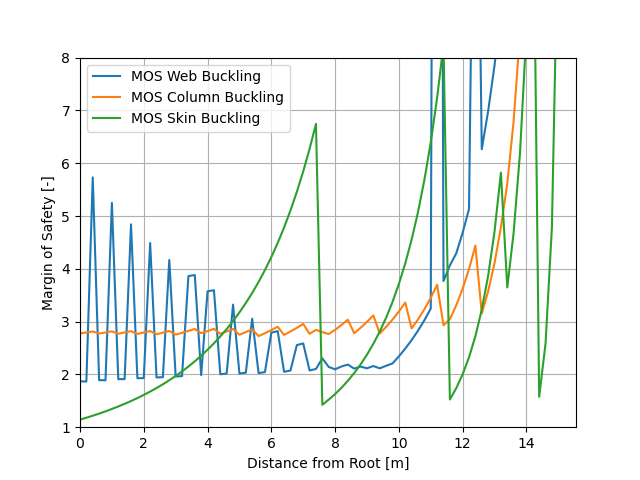
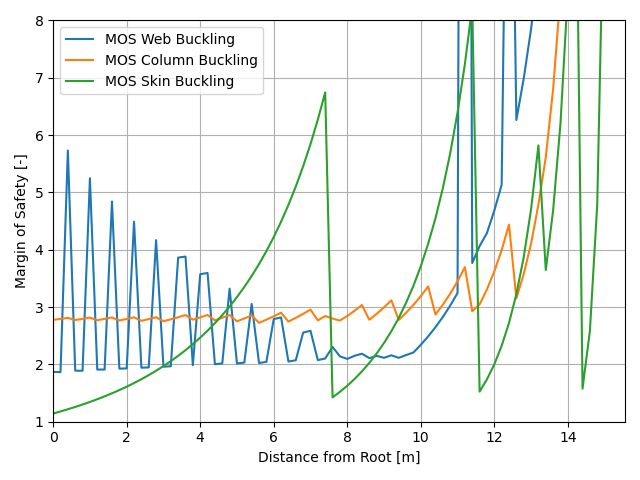
optimisation

diff --git a/testing_numbers.py b/testing_numbers.py
@@ -47,6 +47,7 @@ MMOI_list = []
 torsional_list = []
 stringer_count_skin_buck = [[], []]
 stringer_count_skin_buck1 = [[], []]
+stringer_count = [[], []]
 
 MOSwebbuck = [[], []]
 MOScolumnbuck = [[], []]
@@ -133,6 +134,12 @@ fn.AoA = 10
 fn.fuel = 1
 WP41.q = fn.dynamic_pressure(wingbox, planform)
 for x in rangy_range:
+    number = 0
+    for stringer in wingbox.stringers_top:
+        number += (stringer.x_stop > x)
+    stringer_count[0].append(number)
+
+for x in rangy_range:
     lift_list[0].append(WP41.Ndis0(x, fn.AoA))
     # torsion_list[0].append(fn.torsion(x, planform))
     # bending_list[0].append(fn.bending_moment(x, wingbox, planform))
@@ -147,9 +154,9 @@ for x in rangy_range:
     # critical_column_stress[0].append(fn.column_buckling(x, test_stringer))
     # stringer_count_skin_buck[0].append(fn.skin_buckling_stringer_count(x, wingbox, planform)[0])
     # stringer_count_skin_buck1[0].append(fn.skin_buckling_stringer_count(x, wingbox, planform)[1])
-    #MOSwebbuck[0].append(fn.web_buckling(x, wingbox, planform, aluminum, combination_of_vertical_stiff) / fn.shear_stress(x, wingbox.height(planform, x), wingbox, planform))
-    #MOScolumnbuck[0].append(fn.column_buckling(x, wingbox.stringers_top[0], wingbox.rib_list, planform) / abs(fn.normal_stress(x, wingbox, planform, wingbox.height(planform, x) * 2)))
-    #MOSskinbuck[0].append(abs(fn.skin_buckling(x, wingbox, planform) / fn.normal_stress(x, wingbox, planform, 2 * wingbox.height(planform, x))))
+    MOSwebbuck[0].append(fn.web_buckling(x, wingbox, planform, aluminum, combination_of_vertical_stiff) / fn.shear_stress(x, wingbox.height(planform, x), wingbox, planform))
+    MOScolumnbuck[0].append(fn.column_buckling(x, wingbox.stringers_top[0], wingbox.rib_list, planform) / abs(fn.normal_stress(x, wingbox, planform, wingbox.height(planform, x) * 2)))
+    MOSskinbuck[0].append(abs(fn.skin_buckling(x, wingbox, planform) / fn.normal_stress(x, wingbox, planform, 2 * wingbox.height(planform, x))))
     #MOSnormal[0].append(abs( wingbox.material.sig_yld / (fn.normal_stress(x, wingbox, planform, 2 * wingbox.height(planform, x)))))
     #MOScombined[0].append(abs((wingbox.material.sig_yld / 2) / fn.tau_max(x, wingbox, planform)[0]))
 
@@ -157,6 +164,12 @@ fn.load_factor = -1
 fn.AoA = -10
 fn.fuel = 1
 WP41.q = fn.dynamic_pressure(wingbox, planform)
+for x in rangy_range:
+    number = 0
+    for stringer in wingbox.stringers_bottom:
+        number += (stringer.x_stop > x)
+    stringer_count[1].append(number)
+
 for x in rangy_range:
     lift_list[1].append(WP41.Ndis0(x, fn.AoA))
     # torsion_list[1].append(fn.torsion(x, planform))
@@ -169,9 +182,9 @@ for x in rangy_range:
     # critical_column_stress[1].append(fn.column_buckling(x, test_stringer))
     # stringer_count_skin_buck[1].append(fn.skin_buckling_stringer_count(x, wingbox, planform)[0])
     # stringer_count_skin_buck1[1].append(fn.skin_buckling_stringer_count(x, wingbox, planform)[1])
-    #MOSwebbuck[1].append(fn.web_buckling(x, wingbox, planform, aluminum, combination_of_vertical_stiff) / fn.shear_stress(x, wingbox.height(planform, x), wingbox,planform))
-    #MOScolumnbuck[1].append(fn.column_buckling(x, wingbox.stringers_top[0], wingbox.rib_list, planform) / abs(fn.normal_stress(x, wingbox, planform, 0)))
-    #MOSskinbuck[1].append(abs(fn.skin_buckling(x, wingbox, planform) / fn.normal_stress(x, wingbox, planform, 0)))
+    MOSwebbuck[1].append(fn.web_buckling(x, wingbox, planform, aluminum, combination_of_vertical_stiff) / fn.shear_stress(x, wingbox.height(planform, x), wingbox,planform))
+    MOScolumnbuck[1].append(fn.column_buckling(x, wingbox.stringers_top[0], wingbox.rib_list, planform) / abs(fn.normal_stress(x, wingbox, planform, 0)))
+    MOSskinbuck[1].append(abs(fn.skin_buckling(x, wingbox, planform) / fn.normal_stress(x, wingbox, planform, 0)))
     #MOSnormal[1].append(abs(wingbox.material.sig_yld / (fn.normal_stress(x, wingbox, planform, 2 * wingbox.height(planform, x)))))
     #MOScombined[1].append(abs((wingbox.material.sig_yld / 2) / fn.tau_max(x, wingbox, planform)[0]))
 '''
@@ -325,7 +338,7 @@ plt.legend()
 plt.grid()
 plt.show()
 '''
-'''
+
 plt.plot(rangy_range, MOSwebbuck[0], label="MOS Web Buckling")
 plt.plot(rangy_range, MOScolumnbuck[0], label="MOS Column Buckling")
 plt.plot(rangy_range, MOSskinbuck[0], label="MOS Skin Buckling")
@@ -334,6 +347,7 @@ plt.axis([0, planform.b / 2, 1, 4])
 plt.xlabel("Distance from Root [m]")
 plt.ylabel("Margin of Safety [-]")
 plt.legend(loc=2)
+plt.tight_layout()
 plt.grid()
 plt.show()
 
@@ -345,9 +359,10 @@ plt.axis([0, planform.b / 2, 1, 8])
 plt.xlabel("Distance from Root [m]")
 plt.ylabel("Margin of Safety [-]")
 plt.legend(loc=2)
+plt.tight_layout()
 plt.grid()
 plt.show()
-
+'''
 plt.plot(rangy_range, MOSnormal[0], label="MOS Normal Stress")
 plt.plot(rangy_range, MOScombined[0], label="MOS Combined Stress")
 plt.axis([0, planform.b / 2, 1, 4])
@@ -370,14 +385,21 @@ plt.legend()
 plt.grid()
 plt.show()
 '''
-fn.load_factor = 2.5
-fn.AoA = 10
-fn.fuel = 1
-WP41.q = fn.dynamic_pressure(wingbox, planform)
+plt.plot(rangy_range, stringer_count[0], label="Stringer count on Top Sheet")
+plt.plot(rangy_range, stringer_count[1], label="Stringer Count on Bottom Sheet")
+plt.axis([0, planform.b / 2, 0, 22])
+# plt.title('Margin of safety for stress for load factor -1')
+plt.xlabel("Distance from Root [m]")
+plt.ylabel("Stringer Count [-]")
+plt.tight_layout()
+plt.legend()
+plt.grid()
+plt.show()
+
 #print(f"MOS for column buckling is {min([min(MOScolumnbuck[0]), min(MOScolumnbuck[1])])}")
 #print(f"MOS for web buckling is {min([min(MOSwebbuck[0]), min(MOSwebbuck[1])])}")
 #print(f"MOS for skin buckling is {min([min(MOSskinbuck[0]), min(MOSskinbuck[1])])}")
 #print(f"MOS for normal stress is {min([min(MOSnormal[0]), min(MOSnormal[1])])}")
 #print(f"MOS for combined stress is {min([min(MOScombined[0]), min(MOScombined[1])])}")
-print(f"The deflection at the tip is {fn.vertical_deflection(planform.b/2, aluminum, wingbox, planform)}")
-print(f"The twist angle at the tip is {fn.twist_angle(planform.b/2, wingbox, aluminum, planform)}")
+#print(f"The deflection at the tip is {fn.vertical_deflection(planform.b/2, aluminum, wingbox, planform)}")
+#print(f"The twist angle at the tip is {fn.twist_angle(planform.b/2, wingbox, aluminum, planform)}")

diff --git a/stringer_placment.py b/stringer_placment.py
@@ -47,8 +47,9 @@ aluminum = fn.Material(2700, 276 * (10 ** 6), 310 * (10 ** 6), 68.9 * (10 ** 9),
 # list_of_stringer_lengths = [0.7, 1.2, 1.6, 1.9, 2.2, 2.5, 2.7, 3.0, 3.2, 3.5, 3.7, 3.9, 4.1, 4.3, 4.4, 4.7, 4.9, 5.2, 15.5, 15.5]
 list_of_stringer_top = []
 list_of_stringer_bottom = []
-list_of_stringer_lengths1 = [15.600000000000001, 0.2, 0.2, 0.2, 14.900000000000002, 14.900000000000002, 14.400000000000002, 13.400000000000002, 13.400000000000002, 13.400000000000002, 13.400000000000002, 11.55, 11.55, 11.55, 11.55, 11.55, 11.55, 11.55, 7.7, 7.7, 7.7, 7.7, 7.7, 7.7, 7.7, 7.7, 7.7, 7.7, 7.7, 7.7, 7.7, 7.7, 7.7, 15.555]
-list_of_stringer_lengths2 = [15.600000000000001, 14.8, 14.8, 13.900000000000002, 13.900000000000002, 12.600000000000001, 12.600000000000001, 12.600000000000001, 12.600000000000001, 12.600000000000001, 9.950000000000001, 9.950000000000001, 9.950000000000001, 9.950000000000001, 9.950000000000001, 9.950000000000001, 9.950000000000001, 9.950000000000001, 9.950000000000001, 9.950000000000001, 4.5, 4.5, 4.5, 4.5, 4.5, 4.5, 4.5, 4.5, 4.5, 4.5, 4.5, 4.5, 4.5, 4.5, 4.5, 4.5, 4.5, 4.5, 4.5, 15.555]
+list_of_stringer_lengths1 = [15.600000000000001, 14.500000000000002, 14.500000000000002, 13.700000000000001, 11.950000000000001, 11.950000000000001, 11.950000000000001, 8.200000000000001, 8.200000000000001, 8.200000000000001, 8.200000000000001, 8.200000000000001, 8.200000000000001, 15.555]
+list_of_stringer_lengths2 = [15.600000000000001, 14.500000000000002, 14.500000000000002, 13.700000000000001, 11.950000000000001, 11.950000000000001, 11.950000000000001, 8.200000000000001, 8.200000000000001, 8.200000000000001, 8.200000000000001, 8.200000000000001, 8.200000000000001, 15.555]
+
 
 for x in range(len(list_of_stringer_lengths1)):
     list_of_stringer_top.append(fn.Stringer(t, a, list_of_stringer_lengths1[x], aluminum))
@@ -68,16 +69,16 @@ fn.AoA = 10
 WP41.q = fn.dynamic_pressure(wingbox, planform)
 
 for x in rangy_range_2:
-    tau_max_list[0].append(fn.tau_max(x, wingbox, planform)[0])
-    # buckling_stringer_count[0].append(fn.skin_buckling_stringer_count(x, wingbox, planform)[0])
-    # number = 0
-    # for stringer in wingbox.stringers_top:
-        # number += (stringer.x_stop > x)
-    # actual_stringer_count[0].append(number)
-    # stringer_count = 0
-    # for stringer in wingbox.stringers_top:
-        # stringer_count += (stringer.x_stop >= x) * 1
-    # spacing_list[0].append((wingbox.width(planform, x) - stringer_count * wingbox.stringers_top[0].a / 2)/(stringer_count-1))
+    # tau_max_list[0].append(fn.tau_max(x, wingbox, planform)[0])
+    buckling_stringer_count[0].append(fn.skin_buckling_stringer_count(x, wingbox, planform)[0])
+    number = 0
+    for stringer in wingbox.stringers_top:
+        number += (stringer.x_stop > x)
+    actual_stringer_count[0].append(number)
+    stringer_count = 0
+    for stringer in wingbox.stringers_top:
+        stringer_count += (stringer.x_stop >= x) * 1
+    spacing_list[0].append((wingbox.width(planform, x) - stringer_count * wingbox.stringers_top[0].a / 2)/(stringer_count-1))
 
 fn.load_factor = -1
 fn.AoA = -10
